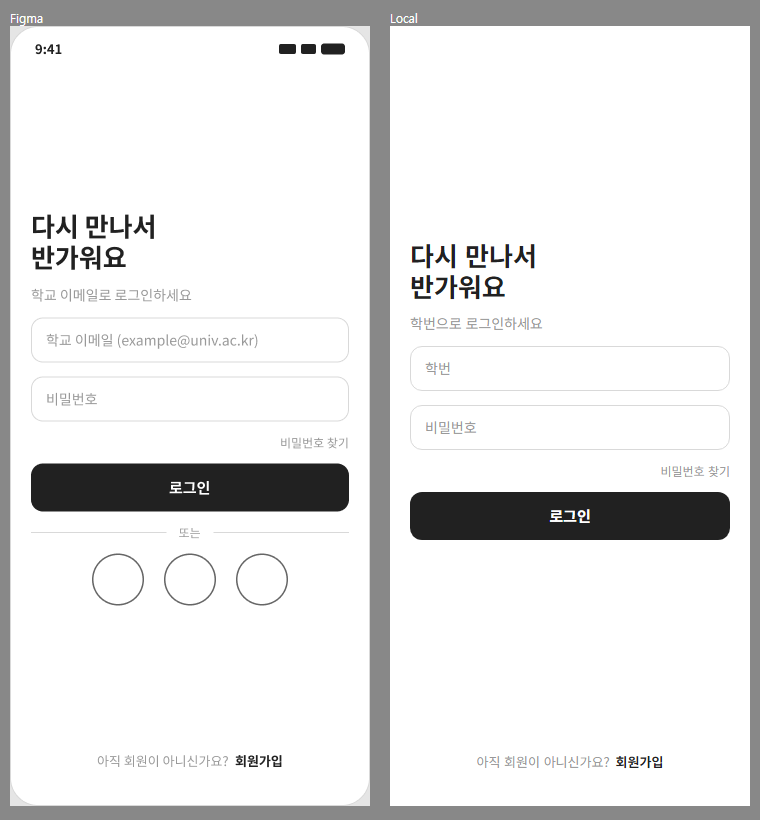
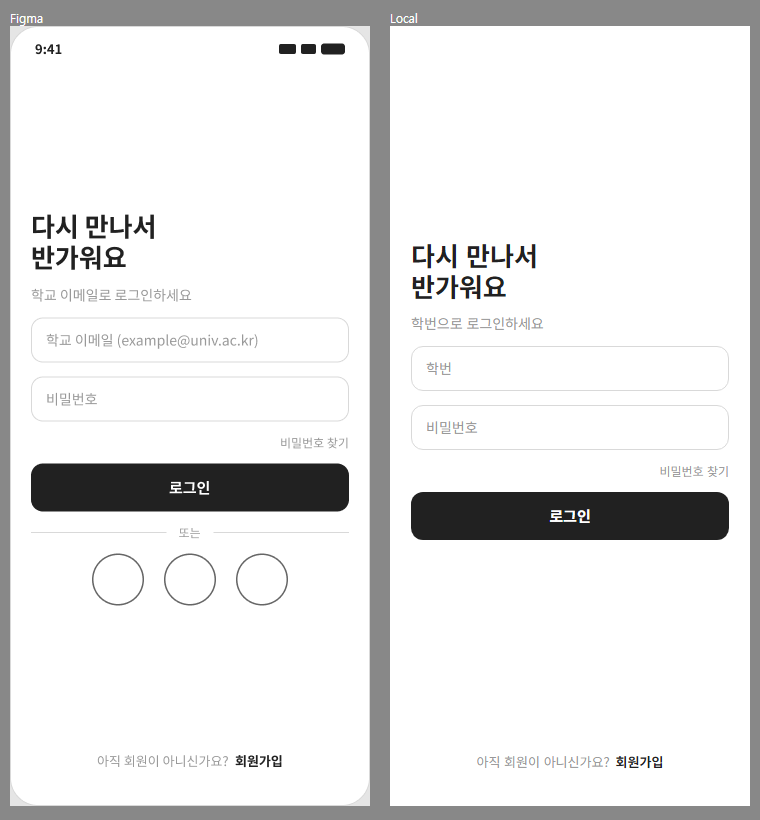
feat(client): A-03 interest onboarding (3+ topics) after splash/login, reusable for editing

diff --git a/client/src/aplan/screens/OnboardingScreen.tsx b/client/src/aplan/screens/OnboardingScreen.tsx
@@ -1,0 +1,99 @@
+import { useState } from "react";
+import { ChevronLeft } from "lucide-react";
+import { meApi } from "@/api/aplan";
+import { TOPICS, MIN_INTERESTS, type TopicKey } from "@/constants/topics";
+import { TopicSelectChip } from "@/aplan/components/TopicSelectChip";
+import { PrimaryButton } from "@/aplan/components/PrimaryButton";
+import type { Me } from "@/types/aplan";
+import "@/styles/aplan-tokens.css";
+
+interface OnboardingScreenProps {
+  /** 처음 온보딩이면 "onboarding", 마이페이지에서 관심 기술을 고치러 들어오면 "edit" */
+  mode?: "onboarding" | "edit";
+  initialInterests?: TopicKey[];
+  onDone: (me: Me) => void;
+  onBack?: () => void;
+}
+
+// A-03 온보딩 (Figma 2:84). 15개 관심 분야 중 3개 이상 선택.
+// - 진행 바(2:46)는 가입 → 관심 분야 → 시작 중 두 번째 단계로 표시한다
+// - 마이페이지에서 다시 들어오면 진행 바 자리에 뒤로 가기를 두고 버튼은 "저장"으로 동작한다
+export function OnboardingScreen({ mode = "onboarding", initialInterests = [], onDone, onBack }: OnboardingScreenProps) {
+  const [selected, setSelected] = useState<TopicKey[]>(initialInterests);
+  const [saving, setSaving] = useState(false);
+  const [error, setError] = useState<string | null>(null);
+
+  const toggle = (key: TopicKey) =>
+    setSelected((prev) => (prev.includes(key) ? prev.filter((k) => k !== key) : [...prev, key]));
+
+  const canSubmit = selected.length >= MIN_INTERESTS;
+
+  const handleSubmit = async () => {
+    if (!canSubmit) return;
+    setSaving(true);
+    setError(null);
+    try {
+      onDone(await meApi.saveInterests(selected));
+    } catch (err: any) {
+      setError(err?.response?.data?.message || "저장하지 못했어요. 잠시 후 다시 시도해주세요.");
+    } finally {
+      setSaving(false);
+    }
+  };
+
+  return (
+    <div className="a-screen flex min-h-dvh flex-col">
+      {mode === "onboarding" ? (
+        // 2:46 진행 바
+        <div className="flex w-full items-center gap-[6px] px-[20px] py-[10px]" aria-label="3단계 중 2단계: 관심 분야 선택" role="img">
+          {[true, true, false].map((done, i) => (
+            <div
+              key={i}
+              className="h-[4px] min-w-px flex-1 rounded-[2px]"
+              style={{ background: done ? "var(--a-color-surface-inverse)" : "var(--a-color-border)" }}
+            />
+          ))}
+        </div>
+      ) : (
+        <div className="flex h-[24px] items-center px-[16px]">
+          <button type="button" onClick={onBack} aria-label="뒤로 가기" className="flex size-[24px] items-center justify-center border-0 bg-transparent p-0">
+            <ChevronLeft size={22} strokeWidth={1.5} style={{ color: "var(--a-color-icon)" }} />
+          </button>
+        </div>
+      )}
+
+      {/* 2:91 Body */}
+      <div className="flex min-h-px flex-1 flex-col items-start gap-[16px] px-[20px] py-[12px]">
+        {/* 2:47 */}
+        <h1 className="m-0 w-full text-[26px] leading-[31px] font-bold" style={{ color: "var(--a-color-text-primary)" }}>
+          관심 분야를
+          <br />
+          선택해주세요
+        </h1>
+        {/* 2:48 */}
+        <p className="m-0 w-full text-[14px] leading-[17px] font-normal" style={{ color: "var(--a-color-text-secondary)" }}>
+          선택한 분야로 맞춤 피드를 추천해드려요 ({MIN_INTERESTS}개 이상)
+        </p>
+        {/* 2:79 칩 목록 */}
+        <div className="flex w-full flex-wrap content-center items-center gap-[8px]" role="group" aria-label="관심 분야">
+          {TOPICS.map((t) => (
+            <TopicSelectChip key={t.key} selected={selected.includes(t.key)} onClick={() => toggle(t.key)}>
+              {t.label}
+            </TopicSelectChip>
+          ))}
+        </div>
+        {error && (
+          <p role="alert" className="m-0 text-[12px] leading-[14px]" style={{ color: "var(--a-color-danger)" }}>{error}</p>
+        )}
+        {/* 2:80 여백 */}
+        <div className="min-h-px flex-1" aria-hidden />
+        {/* 2:82 다음 / 저장 */}
+        <PrimaryButton onClick={handleSubmit} disabled={!canSubmit} loading={saving}>
+          {mode === "edit" ? "저장" : "다음"} ({selected.length}개 선택됨)
+        </PrimaryButton>
+      </div>
+      {/* 2:83 하단 여백 */}
+      <div className="h-[20px] shrink-0" aria-hidden />
+    </div>
+  );
+}

diff --git a/client/src/app/App.tsx b/client/src/app/App.tsx
@@ -13,7 +13,9 @@ import { useSocket } from "@/hooks/useSocket";
 import "@/styles/tokens.css";
 import { Modal } from "@/components/ui/Modal";
 import { SplashScreen } from "@/aplan/screens/SplashScreen";
+import { OnboardingScreen } from "@/aplan/screens/OnboardingScreen";
 import { meApi } from "@/api/aplan";
+import type { Me } from "@/types/aplan";
 
 const SPLASH_MIN_MS = 1000;
 
@@ -148,24 +150,27 @@ const [currentTime, setCurrentTime] = useState("");
 
   // 앱 시작: 스플래시(A-01)를 최소 1초 보여주면서 토큰을 확인한다 → 자동 로그인
   const [booting, setBooting] = useState(true);
+  const [needsOnboarding, setNeedsOnboarding] = useState(false);
   useEffect(() => {
     const token = localStorage.getItem("token");
     const autoLogin = localStorage.getItem("autoLogin");
     const minDelay = new Promise((resolve) => setTimeout(resolve, SPLASH_MIN_MS));
-    let check: Promise<boolean>;
+    let check: Promise<Me | null>;
     if (token && autoLogin === "true") {
       // 토큰이 아직 유효한지 서버에 확인한다 (만료됐으면 api 인터셉터가 로그아웃 처리)
-      check = meApi.get().then(() => true).catch(() => false);
+      check = meApi.get().catch(() => null);
     } else {
       // 자동 로그인을 선택하지 않았다면 이전 토큰은 정리
       localStorage.removeItem("token");
       localStorage.removeItem("user");
-      check = Promise.resolve(false);
+      check = Promise.resolve(null);
     }
     let cancelled = false;
-    Promise.all([check, minDelay]).then(([ok]) => {
+    Promise.all([check, minDelay]).then(([me]) => {
       if (cancelled) return;
-      setLoggedIn(ok);
+      // 미로그인 → 로그인(A-02) / 온보딩 미완료 → 온보딩(A-03) / 완료 → 메인
+      setLoggedIn(!!me);
+      setNeedsOnboarding(!!me && !me.onboardingCompleted);
       setBooting(false);
     });
     return () => {
@@ -227,6 +232,11 @@ const [currentTime, setCurrentTime] = useState("");
 
   if (booting) return <SplashScreen />;
 
+  // 관심 분야 온보딩 (A-03) — 기존 사용자도 온보딩을 마치지 않았으면 로그인 후 여기로 온다.
+  if (loggedIn && needsOnboarding) {
+    return <OnboardingScreen onDone={() => setNeedsOnboarding(false)} />;
+  }
+
   // 회원가입 화면
   if (showRegister) {
     return phoneFrame(
@@ -253,8 +263,10 @@ const [currentTime, setCurrentTime] = useState("");
           />
         ) : (
           <LoginScreen
-            onLogin={() => {
+            onLogin={async () => {
               setNickname(getCurrentUser()?.nickname ?? "");
+              const me = await meApi.get().catch(() => null);
+              setNeedsOnboarding(!!me && !me.onboardingCompleted);
               setLoggedIn(true);
             }}
             onRegister={() => setShowConsentModal(true)}

diff --git a/client/src/aplan/components/TopicSelectChip.tsx b/client/src/aplan/components/TopicSelectChip.tsx
@@ -1,0 +1,49 @@
+import { useLayoutEffect, useRef, type ButtonHTMLAttributes } from "react";
+
+interface TopicSelectChipProps extends ButtonHTMLAttributes<HTMLButtonElement> {
+  selected: boolean;
+}
+
+// 온보딩 관심 분야 칩 (Figma 2:50 Chip): 좌우 16·상하 9, 완전 둥근 모서리, 14px Medium.
+// 선택: #212121 채움 + 흰 글자 / 미선택: #F2F2F2 채움 + #666 글자
+export function TopicSelectChip({ selected, children, ...props }: TopicSelectChipProps) {
+  const labelRef = useFigmaTextWidth();
+  return (
+    <button
+      type="button"
+      aria-pressed={selected}
+      className="shrink-0 border-0 px-[16px] py-[9px] text-[14px] leading-[17px] font-[500] whitespace-nowrap transition-colors"
+      style={{
+        borderRadius: "var(--a-radius-pill)",
+        background: selected ? "var(--a-color-surface-inverse)" : "var(--a-color-surface-muted)",
+        color: selected ? "var(--a-color-on-inverse)" : "var(--a-color-icon)",
+      }}
+      {...props}
+    >
+      <span ref={labelRef} className="inline-block">{children}</span>
+    </button>
+  );
+}
+
+// Figma는 글자 폭에 맞춘 텍스트 상자의 너비를 정수 px로 올림한다(예: 48.3px → 49px).
+// 브라우저는 소수점 폭을 그대로 써서 칩이 조금씩 좁아지고, 여러 줄로 감쌀 때 줄바꿈 위치가
+// Figma와 달라진다. 웹폰트가 로드된 뒤 글자 폭을 재서 올림한 값으로 고정한다.
+function useFigmaTextWidth() {
+  const ref = useRef<HTMLSpanElement>(null);
+  useLayoutEffect(() => {
+    const el = ref.current;
+    if (!el) return;
+    let cancelled = false;
+    const fit = () => {
+      if (cancelled) return;
+      el.style.width = "";
+      el.style.width = `${Math.ceil(el.getBoundingClientRect().width)}px`;
+    };
+    fit();
+    document.fonts?.ready.then(fit);
+    return () => {
+      cancelled = true;
+    };
+  });
+  return ref;
+}

diff --git a/client/src/dev/AplanPreview.tsx b/client/src/dev/AplanPreview.tsx
@@ -4,6 +4,7 @@ import type { ReactElement } from "react";
 import { SplashScreen } from "@/aplan/screens/SplashScreen";
 import { LoginScreen } from "@/aplan/screens/LoginScreen";
 import { FindPasswordScreen } from "@/aplan/screens/FindPasswordScreen";
+import { OnboardingScreen } from "@/aplan/screens/OnboardingScreen";
 
 const noop = () => {};
 
@@ -11,6 +12,8 @@ const SCREENS: Record<string, () => ReactElement> = {
   "a01-splash": () => <SplashScreen />,
   "a02-login": () => <LoginScreen onLogin={noop} onRegister={noop} onFindPassword={noop} />,
   "a02-find-password": () => <FindPasswordScreen onBack={noop} onDone={noop} />,
+  "a03-onboarding": () => <OnboardingScreen initialInterests={["python", "sql", "ml", "dataviz"]} onDone={noop} />,
+  "a03-onboarding-edit": () => <OnboardingScreen mode="edit" initialInterests={["python", "sql"]} onDone={noop} onBack={noop} />,
 };
 
 export default function AplanPreview({ name }: { name: string }) {

diff --git a/client/src/styles/aplan-tokens.css b/client/src/styles/aplan-tokens.css
@@ -45,6 +45,9 @@
   max-width: var(--a-screen-max);
   min-height: 100dvh;
   margin: 0 auto;
+  /* Figma 프레임은 1px 테두리 안쪽(358px)에 내용이 놓인다. 테두리는 그리지 않되 같은 폭을
+     유지해야 칩 줄바꿈 등 배치가 Figma와 똑같아지므로 좌우 1px을 비워둔다. */
+  padding-inline: 1px;
   font-family: var(--a-font-sans);
   color: var(--a-color-text-primary);
   background: var(--a-color-bg);
